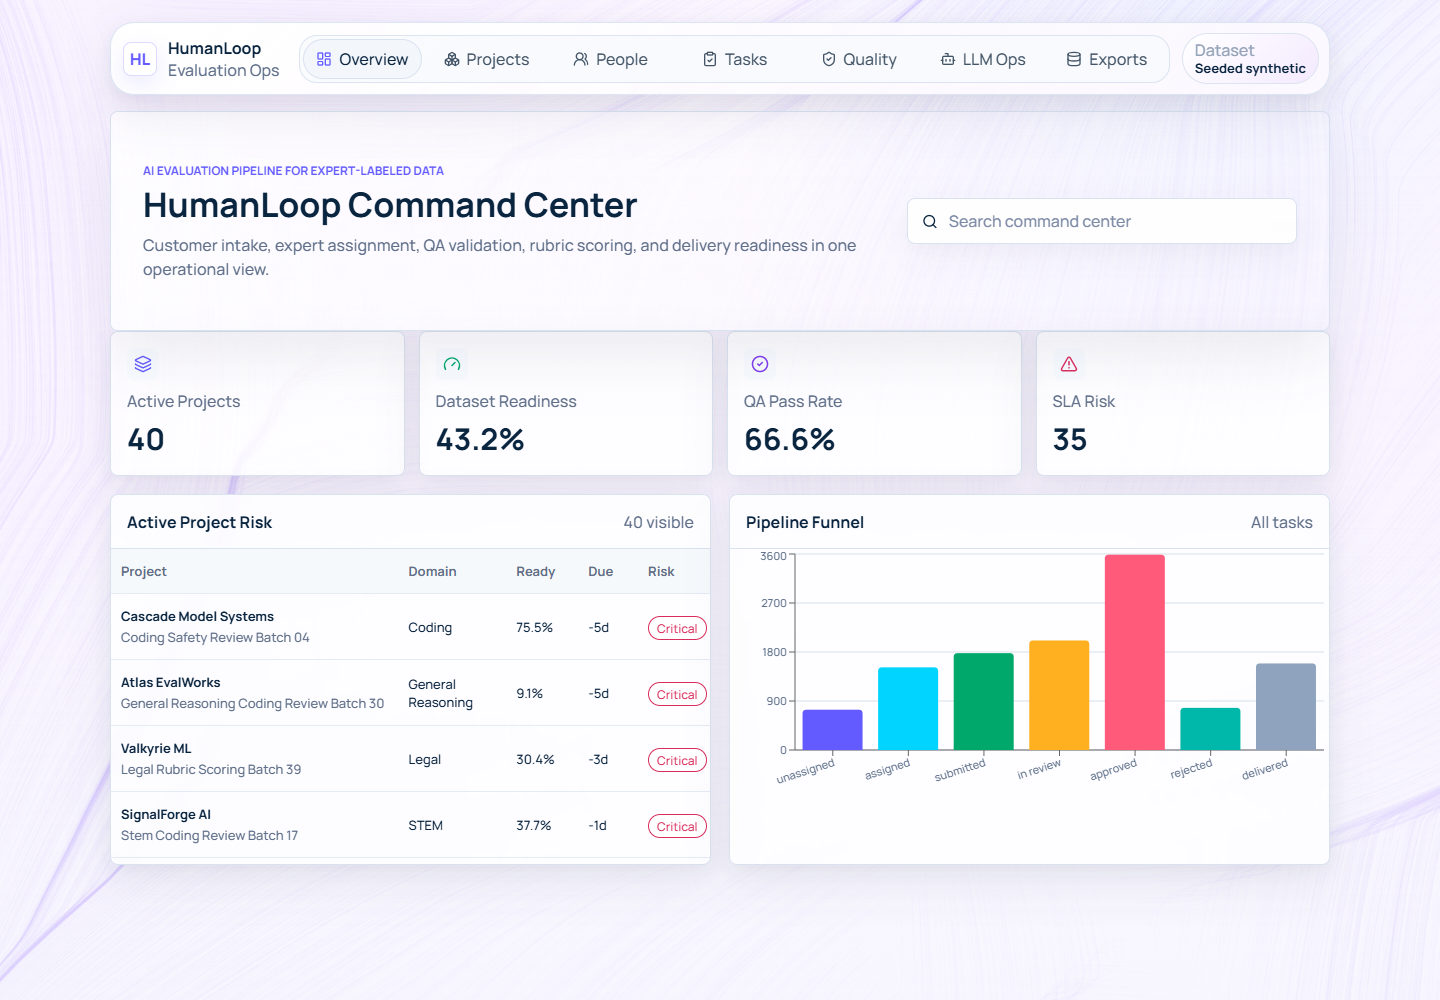
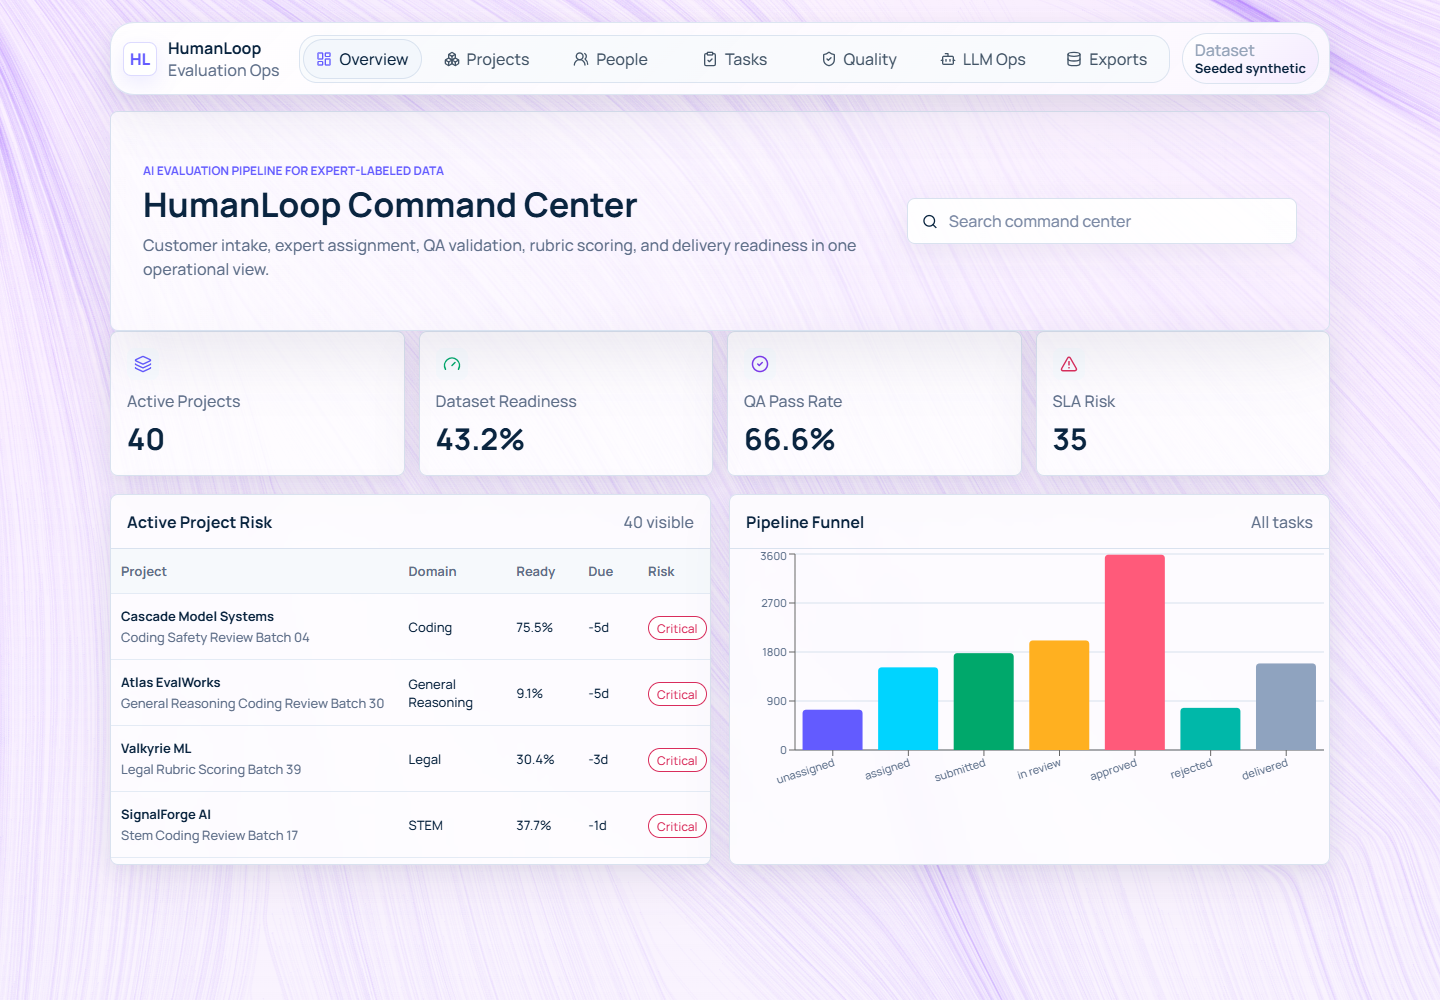
style: deepen live background contrast

diff --git a/frontend/src/styles.css b/frontend/src/styles.css
@@ -45,9 +45,9 @@ button {
   overflow: hidden;
   pointer-events: none;
   background:
-    radial-gradient(circle at 22% -8%, rgba(99, 91, 255, 0.18), transparent 30rem),
-    radial-gradient(circle at 82% 2%, rgba(0, 212, 255, 0.16), transparent 28rem),
-    linear-gradient(180deg, #fbfdff 0%, #f6f0ff 42%, #edf7fb 100%);
+    radial-gradient(circle at 22% -8%, rgba(99, 91, 255, 0.24), transparent 30rem),
+    radial-gradient(circle at 82% 2%, rgba(139, 92, 246, 0.18), transparent 28rem),
+    linear-gradient(180deg, #fdfcff 0%, #f1e6ff 42%, #ecf4fb 100%);
 }
 
 .live-background::after {
@@ -56,13 +56,13 @@ button {
   inset: 0;
   z-index: 1;
   background:
-    linear-gradient(180deg, rgba(255, 255, 255, 0.18), rgba(248, 251, 255, 0.46)),
-    radial-gradient(circle at 50% 14%, rgba(255, 255, 255, 0.32), transparent 34rem);
+    linear-gradient(180deg, rgba(255, 255, 255, 0.08), rgba(248, 251, 255, 0.32)),
+    radial-gradient(circle at 50% 14%, rgba(255, 255, 255, 0.2), transparent 34rem);
 }
 
 .live-background .vanta-canvas {
-  opacity: 0.68 !important;
-  filter: saturate(1.22) contrast(1.04);
+  opacity: 0.82 !important;
+  filter: saturate(1.34) contrast(1.08);
 }
 
 .brand {
@@ -986,9 +986,9 @@ td span {
 
 body {
   background:
-    radial-gradient(circle at 22% -8%, rgba(99, 91, 255, 0.14), transparent 30rem),
-    radial-gradient(circle at 80% 4%, rgba(0, 212, 255, 0.14), transparent 28rem),
-    linear-gradient(180deg, #fbfdff 0%, #f7f2ff 42%, #eef7fb 100%);
+    radial-gradient(circle at 22% -8%, rgba(99, 91, 255, 0.18), transparent 30rem),
+    radial-gradient(circle at 80% 4%, rgba(139, 92, 246, 0.14), transparent 28rem),
+    linear-gradient(180deg, #fdfcff 0%, #f1e6ff 42%, #ecf4fb 100%);
 }
 
 .brand strong,

diff --git a/frontend/src/App.tsx b/frontend/src/App.tsx
@@ -267,8 +267,8 @@ function LiveBackground() {
           minWidth: 320,
           scale: 1,
           scaleMobile: 1,
-          color: 0xa78bfa,
-          backgroundColor: 0xf5edff,
+          color: 0x8b5cf6,
+          backgroundColor: 0xf0e7ff,
           points: 6,
           maxDistance: 19,
           spacing: 20